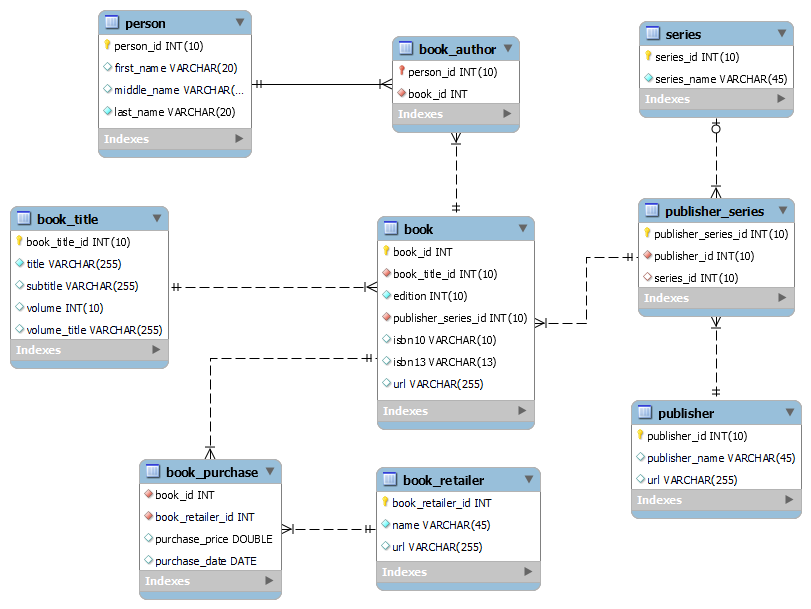
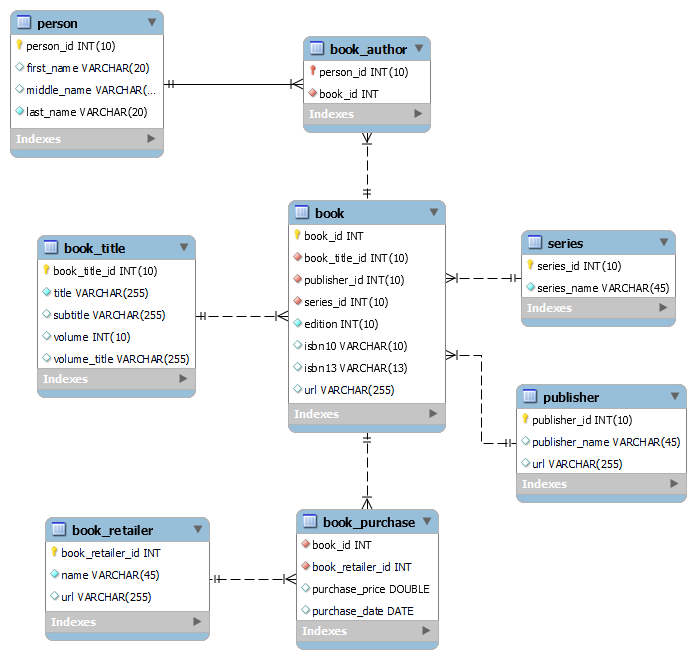
updated series and publisher

diff --git a/README.md b/README.md
@@ -6,6 +6,6 @@ books.mwb is the MySQL Workbench file fo the database design.
 
 There is a small sample of data provided as insert statements.
 
-books.sql is the database creation scipt generated from MySQL Workbench.
+books.sql is the database creation script generated from MySQL Workbench.
 
 <img src="books-data-model.png">
